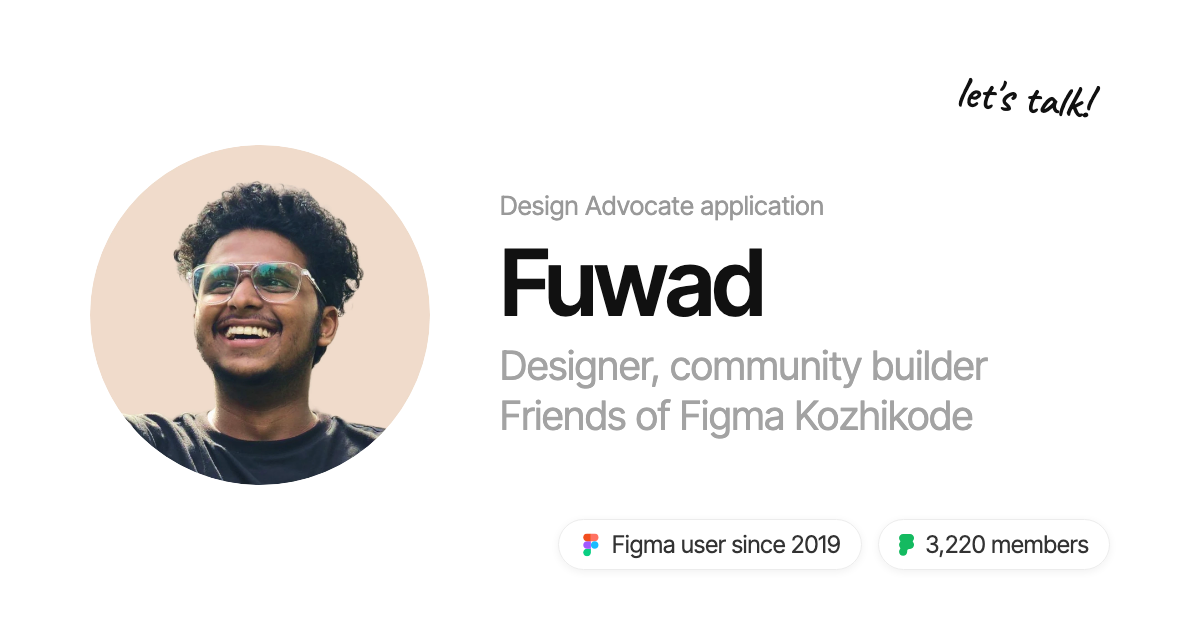
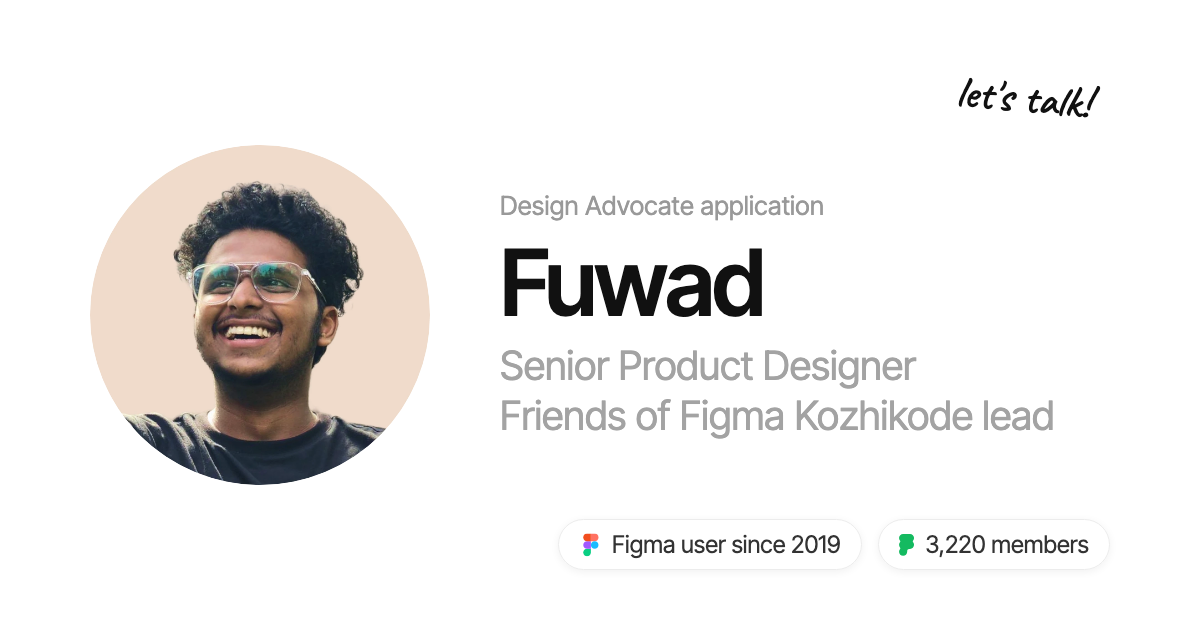
Reflect Senior Product Designer role in header, Designed row, metadata and share image

Changed region(s): [[0.4008, 0.5429, 0.8325, 0.6333], [0.8017, 0.6333, 0.8942, 0.6937]]

diff --git a/index.html b/index.html
@@ -4,7 +4,7 @@
 <meta charset="utf-8">
 <meta name="viewport" content="width=device-width, initial-scale=1, viewport-fit=cover">
 <title>Fuwad | Design Advocate Application for Figma</title>
-<meta name="description" content="Fuwad is a designer from Kozhikode, India, founder of Friends of Figma Kozhikode (3,220 members, #3 in India) and a Figma user since 2019. See why he is a fit for the Figma Design Advocate role.">
+<meta name="description" content="Fuwad is a Senior Product Designer from Kozhikode, India, founder of Friends of Figma Kozhikode (3,220 members, #3 in India) and a Figma user since 2019. See why he is a fit for the Figma Design Advocate role.">
 <meta name="author" content="Fuwad">
 <meta name="keywords" content="Fuwad, Figma Design Advocate, Friends of Figma Kozhikode, Figma community, Kozhikode designer, UI UX designer India, Figma workshops">
 <meta name="robots" content="index, follow, max-image-preview:large, max-snippet:-1">
@@ -18,7 +18,7 @@
 <meta property="og:type" content="profile">
 <meta property="og:site_name" content="Fuwad">
 <meta property="og:title" content="Fuwad | Design Advocate Application for Figma">
-<meta property="og:description" content="Fuwad is a designer from Kozhikode, India, founder of Friends of Figma Kozhikode (3,220 members, #3 in India) and a Figma user since 2019. See why he is a fit for the Figma Design Advocate role.">
+<meta property="og:description" content="Fuwad is a Senior Product Designer from Kozhikode, India, founder of Friends of Figma Kozhikode (3,220 members, #3 in India) and a Figma user since 2019. See why he is a fit for the Figma Design Advocate role.">
 <meta property="og:url" content="https://figma.byfu.app/">
 <meta property="og:image" content="https://figma.byfu.app/assets/og-image.png">
 <meta property="og:image:width" content="1200">
@@ -28,10 +28,10 @@
 <meta property="profile:first_name" content="Fuwad">
 <meta name="twitter:card" content="summary_large_image">
 <meta name="twitter:title" content="Fuwad | Design Advocate Application for Figma">
-<meta name="twitter:description" content="Fuwad is a designer from Kozhikode, India, founder of Friends of Figma Kozhikode (3,220 members, #3 in India) and a Figma user since 2019. See why he is a fit for the Figma Design Advocate role.">
+<meta name="twitter:description" content="Fuwad is a Senior Product Designer from Kozhikode, India, founder of Friends of Figma Kozhikode (3,220 members, #3 in India) and a Figma user since 2019. See why he is a fit for the Figma Design Advocate role.">
 <meta name="twitter:image" content="https://figma.byfu.app/assets/og-image.png">
 <meta name="twitter:image:alt" content="Portrait of Fuwad with the text Design Advocate application, Friends of Figma Kozhikode">
-<script type="application/ld+json">{"@context": "https://schema.org", "@graph": [{"@type": "WebSite", "@id": "https://figma.byfu.app/#website", "url": "https://figma.byfu.app/", "name": "Fuwad | Design Advocate Application", "inLanguage": "en", "publisher": {"@id": "https://figma.byfu.app/#person"}}, {"@type": "ProfilePage", "@id": "https://figma.byfu.app/#page", "url": "https://figma.byfu.app/", "name": "Fuwad | Design Advocate Application", "isPartOf": {"@id": "https://figma.byfu.app/#website"}, "about": {"@id": "https://figma.byfu.app/#person"}, "mainEntity": {"@id": "https://figma.byfu.app/#person"}, "primaryImageOfPage": {"@type": "ImageObject", "url": "https://figma.byfu.app/assets/og-image.png", "width": 1200, "height": 630}, "dateModified": "2026-10-10"}, {"@type": "Person", "@id": "https://figma.byfu.app/#person", "name": "Fuwad", "givenName": "Fuwad", "jobTitle": "Designer and community lead", "description": "Designer from Kozhikode, India. Founder of Friends of Figma Kozhikode and a Figma user since 2019.", "image": "https://figma.byfu.app/assets/fuwad.webp", "url": "https://fuwad.design", "email": "mailto:fuwadmuhd@gmail.com", "address": {"@type": "PostalAddress", "addressLocality": "Kozhikode", "addressRegion": "Kerala", "addressCountry": "IN"}, "knowsAbout": ["Figma", "UI design", "UX design", "Product design", "Prototyping", "Design communities", "Design education"], "sameAs": ["https://fuwad.design", "https://www.linkedin.com/in/fuwad/", "https://instagram.com/fuwad.design", "https://friends.figma.com/kozhikode"], "founder": {"@id": "https://figma.byfu.app/#fof"}}, {"@type": "Organization", "@id": "https://figma.byfu.app/#fof", "name": "Friends of Figma Kozhikode", "url": "https://friends.figma.com/kozhikode", "foundingDate": "2024-06", "description": "The Kozhikode chapter of Friends of Figma. 40+ events, 3,220 members, ranked #3 in India and #5 globally.", "location": {"@type": "Place", "address": {"@type": "PostalAddress", "addressLocality": "Kozhikode", "addressRegion": "Kerala", "addressCountry": "IN"}}, "founder": {"@id": "https://figma.byfu.app/#person"}}, {"@type": "FAQPage", "mainEntity": [{"@type": "Question", "name": "Who is Fuwad?", "acceptedAnswer": {"@type": "Answer", "text": "Fuwad is a designer based in Kozhikode, Kerala, India. He has used Figma since 2019, leads the Friends of Figma Kozhikode community and shares design content on Instagram at @fuwad.design."}}, {"@type": "Question", "name": "What is Friends of Figma Kozhikode?", "acceptedAnswer": {"@type": "Answer", "text": "It is the Kozhikode chapter of Friends of Figma, Figma's global community network. Fuwad started it in June 2024. It has run 40+ events, now has 3,220 members, and ranks #3 in India and #5 worldwide."}}, {"@type": "Question", "name": "Why is Fuwad a good fit for the Figma Design Advocate role?", "acceptedAnswer": {"@type": "Answer", "text": "He has built a community from scratch, taught Figma workshops to beginners and working designers, mentors designers one-on-one, creates educational content for a growing audience of 5K+ on Instagram, and has used Figma hands-on since 2019."}}, {"@type": "Question", "name": "How can I contact Fuwad?", "acceptedAnswer": {"@type": "Answer", "text": "Email fuwadmuhd@gmail.com, connect on LinkedIn at linkedin.com/in/fuwad, follow @fuwad.design on Instagram, or see his design portfolio at fuwad.design."}}]}]}</script>
+<script type="application/ld+json">{"@context": "https://schema.org", "@graph": [{"@type": "WebSite", "@id": "https://figma.byfu.app/#website", "url": "https://figma.byfu.app/", "name": "Fuwad | Design Advocate Application", "inLanguage": "en", "publisher": {"@id": "https://figma.byfu.app/#person"}}, {"@type": "ProfilePage", "@id": "https://figma.byfu.app/#page", "url": "https://figma.byfu.app/", "name": "Fuwad | Design Advocate Application", "isPartOf": {"@id": "https://figma.byfu.app/#website"}, "about": {"@id": "https://figma.byfu.app/#person"}, "mainEntity": {"@id": "https://figma.byfu.app/#person"}, "primaryImageOfPage": {"@type": "ImageObject", "url": "https://figma.byfu.app/assets/og-image.png", "width": 1200, "height": 630}, "dateModified": "2026-10-10"}, {"@type": "Person", "@id": "https://figma.byfu.app/#person", "name": "Fuwad", "givenName": "Fuwad", "jobTitle": "Senior Product Designer", "description": "Senior Product Designer from Kozhikode, India. Founder of Friends of Figma Kozhikode and a Figma user since 2019.", "image": "https://figma.byfu.app/assets/fuwad.webp", "url": "https://fuwad.design", "email": "mailto:fuwadmuhd@gmail.com", "address": {"@type": "PostalAddress", "addressLocality": "Kozhikode", "addressRegion": "Kerala", "addressCountry": "IN"}, "knowsAbout": ["Figma", "UI design", "UX design", "Product design", "Prototyping", "Design communities", "Design education"], "sameAs": ["https://fuwad.design", "https://www.linkedin.com/in/fuwad/", "https://instagram.com/fuwad.design", "https://friends.figma.com/kozhikode"], "founder": {"@id": "https://figma.byfu.app/#fof"}}, {"@type": "Organization", "@id": "https://figma.byfu.app/#fof", "name": "Friends of Figma Kozhikode", "url": "https://friends.figma.com/kozhikode", "foundingDate": "2024-06", "description": "The Kozhikode chapter of Friends of Figma. 40+ events, 3,220 members, ranked #3 in India and #5 globally.", "location": {"@type": "Place", "address": {"@type": "PostalAddress", "addressLocality": "Kozhikode", "addressRegion": "Kerala", "addressCountry": "IN"}}, "founder": {"@id": "https://figma.byfu.app/#person"}}, {"@type": "FAQPage", "mainEntity": [{"@type": "Question", "name": "Who is Fuwad?", "acceptedAnswer": {"@type": "Answer", "text": "Fuwad is a Senior Product Designer based in Kozhikode, Kerala, India. He started as a visual designer and has used Figma since 2019, leads the Friends of Figma Kozhikode community and shares design content on Instagram at @fuwad.design."}}, {"@type": "Question", "name": "What is Friends of Figma Kozhikode?", "acceptedAnswer": {"@type": "Answer", "text": "It is the Kozhikode chapter of Friends of Figma, Figma's global community network. Fuwad started it in June 2024. It has run 40+ events, now has 3,220 members, and ranks #3 in India and #5 worldwide."}}, {"@type": "Question", "name": "Why is Fuwad a good fit for the Figma Design Advocate role?", "acceptedAnswer": {"@type": "Answer", "text": "He has built a community from scratch, taught Figma workshops to beginners and working designers, mentors designers one-on-one, creates educational content for a growing audience of 5K+ on Instagram, and has used Figma hands-on since 2019."}}, {"@type": "Question", "name": "How can I contact Fuwad?", "acceptedAnswer": {"@type": "Answer", "text": "Email fuwadmuhd@gmail.com, connect on LinkedIn at linkedin.com/in/fuwad, follow @fuwad.design on Instagram, or see his design portfolio at fuwad.design."}}]}]}</script>
 <link rel="preconnect" href="https://fonts.googleapis.com">
 <link rel="preconnect" href="https://fonts.gstatic.com" crossorigin>
 <link href="https://fonts.googleapis.com/css2?family=Caveat:wght@500&family=Inter+Tight:wght@400;500;600&display=swap" rel="stylesheet">
@@ -390,7 +390,7 @@ section[id]{scroll-margin-top:120px}
 
   <div class="hero-body" style="margin-top:60px">
     <h1 class="name" style="margin-top:0">Fuwad</h1>
-    <div class="role">Designer · Kozhikode, India</div>
+    <div class="role">Senior Product Designer · Kozhikode, India</div>
 
     <div class="logos" aria-label="Where I belong">
       <div style="font-weight:500"><img src="assets/figma.svg" alt="" width="20" height="21">Figma user since 2019</div>
@@ -425,7 +425,7 @@ section[id]{scroll-margin-top:120px}
     <p>Seven years and counting. I opened Figma in 2019 and it became the place where I design, prototype, teach and meet most of the people I learn from.</p>
   </div>
   <div class="uses">
-    <div><b>Designed</b><span>Case studies and product concepts, from a wishlist app to a feature idea for Figma itself.</span></div>
+    <div><b>Designed</b><span>I started as a visual designer and grew into a Senior Product Designer. Case studies and product concepts, from a wishlist app to a feature idea for Figma itself.</span></div>
     <div><b>Prototyped</b><span>Micro-interactions and flows I could share as a link.</span></div>
     <div><b>Taught</b><span>Beginner sessions and workshops for students and designers.</span></div>
     <div><b>Built a community</b><span>Friends of Figma Kozhikode, from a small room to 3,220 members.</span></div>
@@ -551,7 +551,7 @@ section[id]{scroll-margin-top:120px}
 <section id="faq" class="col" style="margin-top:130px">
   <h2>Quick answers</h2>
   <div class="faq">
-    <details><summary>Who is Fuwad?</summary><p>Fuwad is a designer based in Kozhikode, Kerala, India. He has used Figma since 2019, leads the Friends of Figma Kozhikode community and shares design content on Instagram at @fuwad.design.</p></details>
+    <details><summary>Who is Fuwad?</summary><p>Fuwad is a Senior Product Designer based in Kozhikode, Kerala, India. He started as a visual designer and has used Figma since 2019, leads the Friends of Figma Kozhikode community and shares design content on Instagram at @fuwad.design.</p></details>
     <details><summary>What is Friends of Figma Kozhikode?</summary><p>It is the Kozhikode chapter of Friends of Figma, Figma's global community network. Fuwad started it in June 2024. It has run 40+ events, now has 3,220 members, and ranks #3 in India and #5 worldwide.</p></details>
     <details open><summary>Why is Fuwad a good fit for the Figma Design Advocate role?</summary><p>He has built a community from scratch, taught Figma workshops to beginners and working designers, mentors designers one-on-one, creates educational content for a growing audience of 5K+ on Instagram, and has used Figma hands-on since 2019.</p></details>
     <details><summary>How can I contact Fuwad?</summary><p>Email fuwadmuhd@gmail.com, connect on LinkedIn at linkedin.com/in/fuwad, follow @fuwad.design on Instagram, or see his design portfolio at fuwad.design.</p></details>
